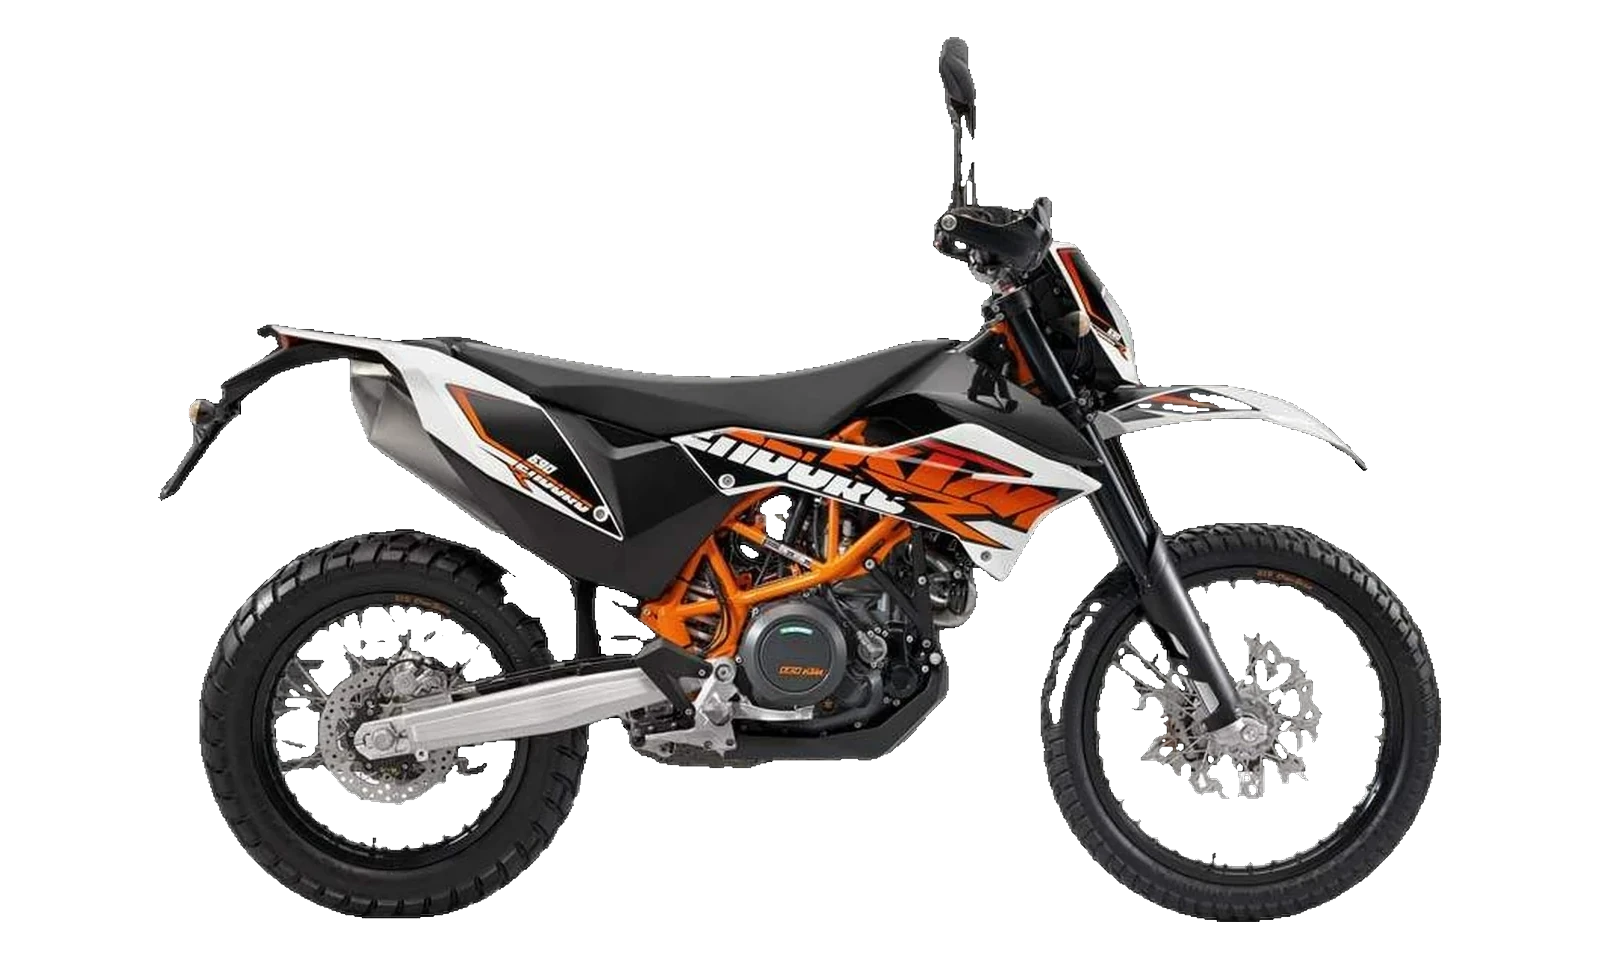
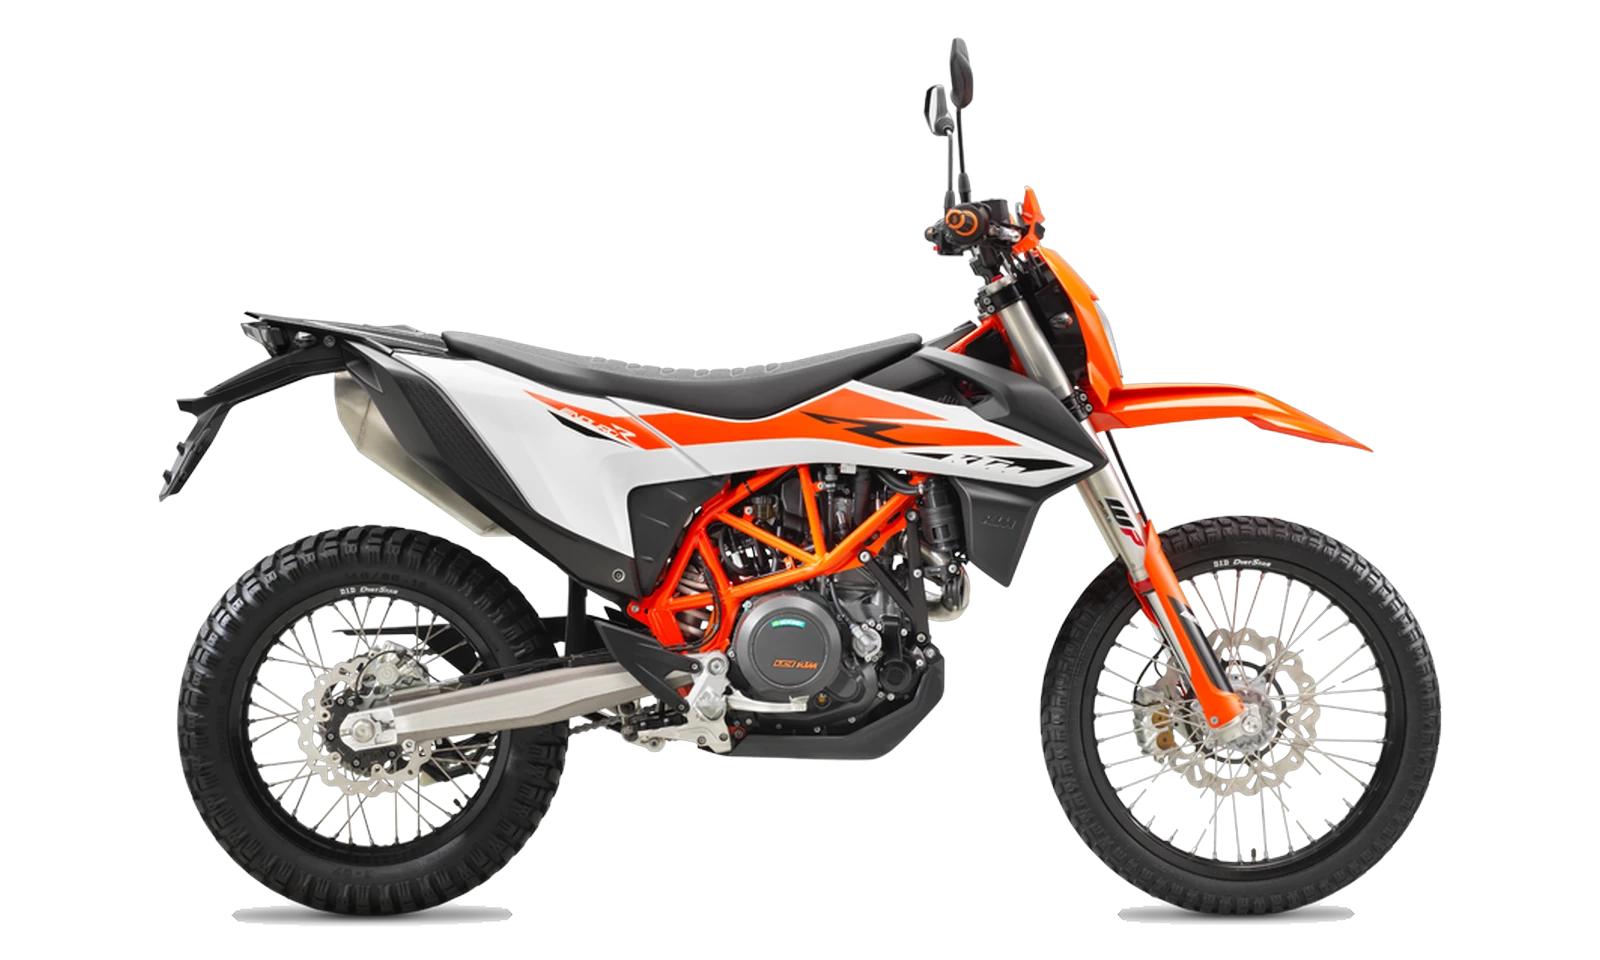
fix: update ktm pics

Changed region(s): [[0.0938, 0.0312, 0.9062, 0.9688], [0.8438, 0.4688, 0.875, 0.5]]

diff --git a/src/data/photos.ts b/src/data/photos.ts
@@ -161,14 +161,18 @@ export const photos: Record<string, PhotoSet> = {
   "ktm-690-enduro-r-2019": {
     views: [{ side: "right", src: "/bikes/ktm-690-enduro-r-2019/right.webp" }],
     credit: "KTM Sportmotorcycle",
-    source: "https://www.motorcyclespecs.co.za/model/ktm/KTM_690_Enduro_R_16.htm",
-    note: "2016 studio image; the bodywork changed with the 2019 revision.",
+    source:
+      "https://web.archive.org/web/20200626132750/https://www.ktm.com/ktmgroup-storage/PHO_BIKE_90_RE_690-enduror-2019-90-re_%23SALL_%23AEPI_%23V1.png",
+    note: "KTM published no left-side view of this model year.",
   },
   "ktm-690-enduro-r-2021": {
-    views: [{ side: "left", src: "/bikes/ktm-690-enduro-r-2021/left.webp" }],
+    views: [
+      { side: "right", src: "/bikes/ktm-690-enduro-r-2021/right.webp" },
+      { side: "left", src: "/bikes/ktm-690-enduro-r-2021/left.webp" },
+    ],
     credit: "KTM Sportmotorcycle",
-    source: "https://www.motorcyclespecs.co.za/model/ktm/ktm_690_enduro_r_21.html",
-    note: "2021 studio image.",
+    source:
+      "https://web.archive.org/web/20201206101503/https://www.ktm.com/ktmgroup-storage/PHO_BIKE_90_RE_690enduror-21-90re_%23SALL_%23AEPI_%23V1.jpg",
   },
   "husqvarna-701-enduro-2017": {
     views: [{ side: "right", src: "/bikes/husqvarna-701-enduro-2017/right.webp" }],
@@ -220,14 +224,20 @@ export const photos: Record<string, PhotoSet> = {
 /**
  * Every bike opens on its right. Ordering here rather than in the entries means
  * the set cannot drift as views are added: the panel simply shows the first.
+ *
+ * Sorted once, not per call: the panel holds the chosen side in state, and a
+ * fresh array on every render gave it a new set of views to compare against.
  */
 const SIDE_ORDER: Side[] = ["right", "left", "front"];
 
-export const photosFor = (slug: string): PhotoSet | undefined => {
-  const set = photos[slug];
-  if (!set) return undefined;
-  return {
-    ...set,
-    views: [...set.views].sort((a, b) => SIDE_ORDER.indexOf(a.side) - SIDE_ORDER.indexOf(b.side)),
-  };
-};
+const ordered: Record<string, PhotoSet> = Object.fromEntries(
+  Object.entries(photos).map(([slug, set]) => [
+    slug,
+    {
+      ...set,
+      views: [...set.views].sort((a, b) => SIDE_ORDER.indexOf(a.side) - SIDE_ORDER.indexOf(b.side)),
+    },
+  ]),
+);
+
+export const photosFor = (slug: string): PhotoSet | undefined => ordered[slug];
